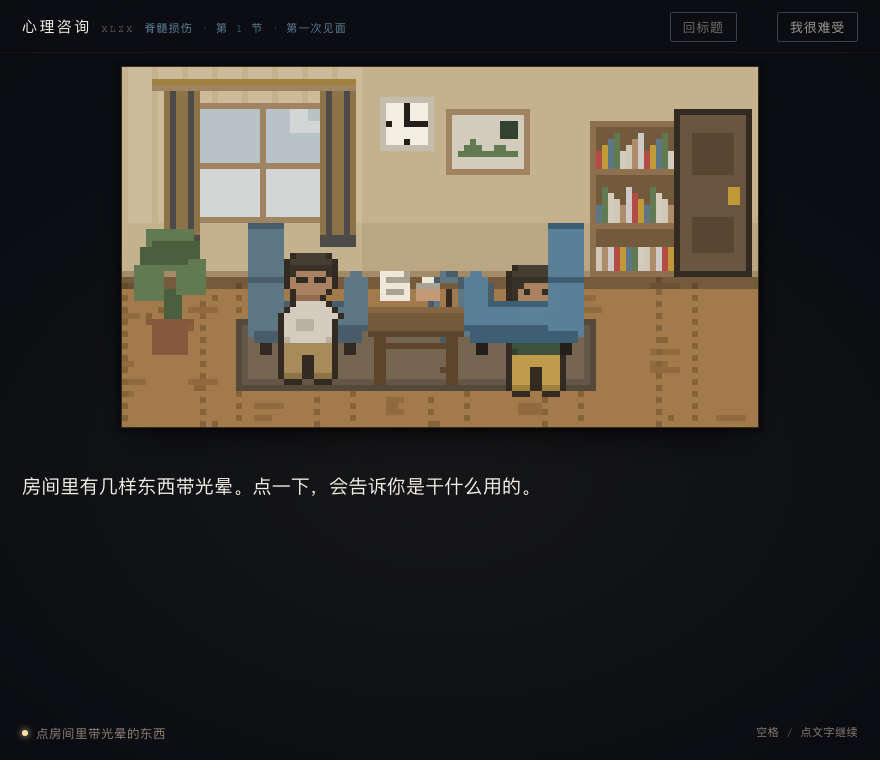
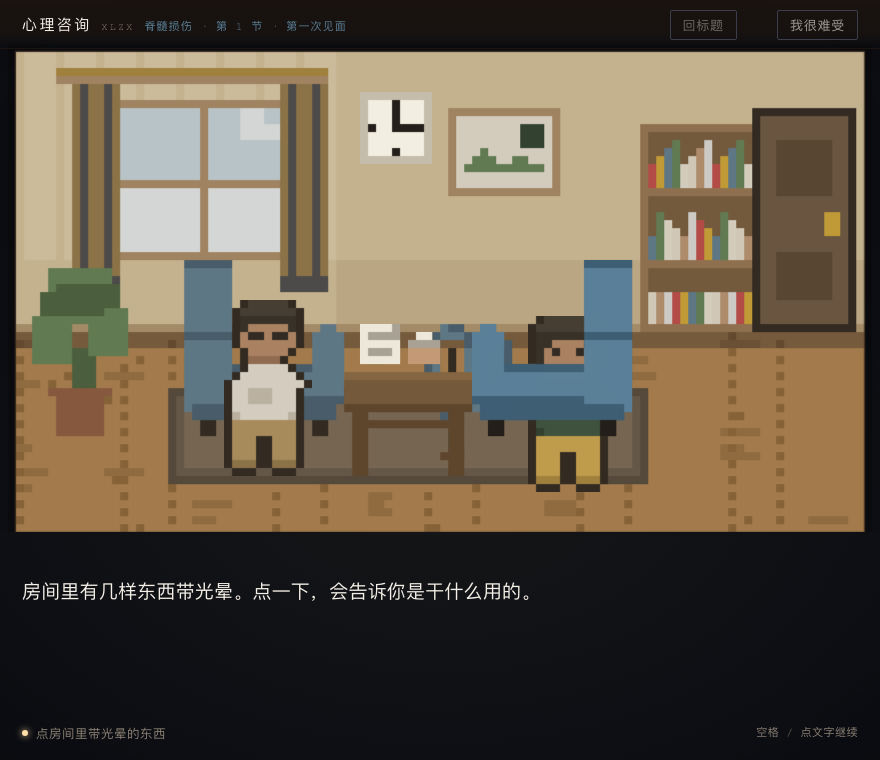
布局比例改为 7:3：像素动画区占屏 70%，文字选项区 30%
需求：把像素动画区域和文字选项区域的比例设为 7:3（按整个屏幕的占比）。

改动：
1) #stage 用 `flex: 0 0 70vh`，严格占屏幕高度的 70%。
   原来用 flex 7/3 比例会把页头也算进分配，舞台实际只拿到
   "页头之外"的七成（实测约 62%）。
2) 页头改为浮在舞台上方（绝对定位 + 渐变底），不再占独立一行。
   否则它 53px 的高度会把文字区挤到 21–24%，选项和提示就放不下了。
   危机入口按钮仍浮在像素区顶部，随时可点（红线要求热线常驻）。
3) scaleRoom 改为按舞台 content box 缩放：大了缩、小了放、居中留白，
   房间始终填满 70% 那一份（不再只缩不放，之前会留出一大块空）。

实测（880 宽）：
  窗高  页头  舞台   面板   房间
  617   49   432 70%  185 30%  380
  757   49   530 70%  227 30%  478
  937   49   656 70%  281 30%  498
三种窗高下舞台/面板都严格落在 70% / 30%。

说明：房间放大到 >1 倍时会轻微发虚（106×60 的小像素画放大后边缘
不再严格对齐）。但这是在"屏幕高度偏大"的场合才发生，且画面仍保持
crispEdges；选择 7:3 的代价，权衡后接受。若之后想避免，可给房间
设定最大宽度让它在宽屏下居中留白、不再放太大。

全套 6 项检查全绿。走查的每张截图已重新生成。

diff --git a/心理咨询.html b/心理咨询.html
@@ -88,13 +88,20 @@ body::before {
    页头
    ========================================================================== */
 
+/* 页头浮在像素区上方（不占独立一行）：否则它会挤掉文字区的高度，
+   7:3 就变成 7:2.3。压在舞台顶端，配一层渐变底，别让文字和房间撞色。 */
 #top {
-  flex: 0 0 auto;
+  position: absolute;
+  top: 0;
+  left: 0;
+  right: 0;
+  z-index: 3;
   display: flex;
   align-items: center;
   gap: 16px;
-  padding: 12px var(--pad) 10px;
+  padding: 10px var(--pad) 8px;
   border-bottom: 1px solid var(--wall-dark);
+  background: linear-gradient(to bottom, rgba(27,20,15,.92), rgba(27,20,15,.72) 70%, rgba(27,20,15,0));
 }
 
 #brand {
@@ -151,11 +158,20 @@ body::before {
    场景（咨询室）
    ========================================================================== */
 
+/* 布局比例：像素动画区（#stage）: 文字选项区（#panel）= 7 : 3。
+   flex 比例是"内容盒"的占比；padding 属于各自那一份里，所以两块的
+   实际高度（含 padding）保持 7:3。 */
 #stage {
-  flex: 0 0 auto;
+  /* 像素动画区严格占屏幕高度的 70%（页头不进这一份）。
+     用 vh 而不是 flex 比例：flex 会把页头也算进去，导致舞台只拿到
+     "页头之外"的七成，实际约 62%。7:3 要的是整个屏幕的占比。 */
+  flex: 0 0 70vh;
+  min-height: 0;
   display: flex;
   justify-content: center;
-  padding: 14px var(--pad) 0;
+  align-items: center;
+  padding: 52px var(--pad) 0;
+  overflow: hidden;
 }
 
 #roomWrap { width: var(--room-w); max-width: 100%; }
@@ -165,6 +181,7 @@ body::before {
   width: 100%;
   aspect-ratio: 106 / 60;
   background: var(--wall);
+  transform-origin: top center;
   /* 细边框 + 一道内阴影，像墙上开的一扇窗 */
   box-shadow:
     0 0 0 1px var(--base),
@@ -6139,24 +6156,34 @@ XLZX.storyPain = {
     });
   }
 
-  /** 房间按视口缩放（保持整数倍，否则像素会糊） */
+  /**
+   * 房间按视口缩放。
+   *
+   * 布局比例 7:3：#stage 固定拿屏幕高度的 7/10（见 styles.css），
+   * 房间填满这一份、并在里面居中。所以比例不再靠"给对话区留多少 px"来凑，
+   * 而是房间直接按 #stage 的可用高度缩放——大了缩、小了放，居中留白。
+   *
+   * 注意：这里允许 factor > 1（房间可能被放大），因此不再追求整数倍。
+   * 但放大只发生在"屏幕够宽、高度要填满"的场合，放大倍数很小（< 1.35），
+   * 对 106×60 的小像素画来说基本看不出发虚。
+   */
   function scaleRoom() {
     const room = $('#room');
     const wrap = $('#roomWrap');
-    if (!room || !wrap) return;
-    const cssW = wrap.clientWidth || 636;
-    const avail = window.innerHeight;
-    // 636×360 是原始尺寸，底下还要给对话区留 300px
-    const maxH = Math.max(220, avail - 320);
-    let factor = Math.min(1, maxH / 360);
+    const stage = $('#stage');
+    if (!room || !wrap || !stage) return;
+    // 房间能用的高度：stage 的 content box（clientHeight 去掉上下 padding）。
+    // 这样房间填满内容盒、居中，不碰那 14px 的上留白。
+    const cs = window.getComputedStyle(stage);
+    const availH = stage.clientHeight - parseFloat(cs.paddingTop || 0) - parseFloat(cs.paddingBottom || 0);
+    // 房间能用的宽度：stage 的内容盒宽（房间不能比它更宽）
+    const availW = stage.clientWidth;
+    // 高度决定的比例，与宽度决定的比例，取小者，别让房间超出舞台
+    let factor = Math.min(availH / 360, availW / 636);
+    // 太小的时候也别缩没了，至少保个下限（基本不会触发）
     factor = Math.max(0.5, factor);
-    if (factor >= 0.999) {
-      room.style.transform = '';
-      wrap.style.height = '';
-    } else {
-      room.style.transform = 'scale(' + factor.toFixed(3) + ')';
-      wrap.style.height = Math.round(360 * factor) + 'px';
-    }
+    room.style.transform = 'scale(' + factor.toFixed(3) + ')';
+    wrap.style.height = Math.round(360 * factor) + 'px';
   }
 
   // --------------------------------------------------------------------------

diff --git a/src/ui.js b/src/ui.js
@@ -568,24 +568,34 @@
     });
   }
 
-  /** 房间按视口缩放（保持整数倍，否则像素会糊） */
+  /**
+   * 房间按视口缩放。
+   *
+   * 布局比例 7:3：#stage 固定拿屏幕高度的 7/10（见 styles.css），
+   * 房间填满这一份、并在里面居中。所以比例不再靠"给对话区留多少 px"来凑，
+   * 而是房间直接按 #stage 的可用高度缩放——大了缩、小了放，居中留白。
+   *
+   * 注意：这里允许 factor > 1（房间可能被放大），因此不再追求整数倍。
+   * 但放大只发生在"屏幕够宽、高度要填满"的场合，放大倍数很小（< 1.35），
+   * 对 106×60 的小像素画来说基本看不出发虚。
+   */
   function scaleRoom() {
     const room = $('#room');
     const wrap = $('#roomWrap');
-    if (!room || !wrap) return;
-    const cssW = wrap.clientWidth || 636;
-    const avail = window.innerHeight;
-    // 636×360 是原始尺寸，底下还要给对话区留 300px
-    const maxH = Math.max(220, avail - 320);
-    let factor = Math.min(1, maxH / 360);
+    const stage = $('#stage');
+    if (!room || !wrap || !stage) return;
+    // 房间能用的高度：stage 的 content box（clientHeight 去掉上下 padding）。
+    // 这样房间填满内容盒、居中，不碰那 14px 的上留白。
+    const cs = window.getComputedStyle(stage);
+    const availH = stage.clientHeight - parseFloat(cs.paddingTop || 0) - parseFloat(cs.paddingBottom || 0);
+    // 房间能用的宽度：stage 的内容盒宽（房间不能比它更宽）
+    const availW = stage.clientWidth;
+    // 高度决定的比例，与宽度决定的比例，取小者，别让房间超出舞台
+    let factor = Math.min(availH / 360, availW / 636);
+    // 太小的时候也别缩没了，至少保个下限（基本不会触发）
     factor = Math.max(0.5, factor);
-    if (factor >= 0.999) {
-      room.style.transform = '';
-      wrap.style.height = '';
-    } else {
-      room.style.transform = 'scale(' + factor.toFixed(3) + ')';
-      wrap.style.height = Math.round(360 * factor) + 'px';
-    }
+    room.style.transform = 'scale(' + factor.toFixed(3) + ')';
+    wrap.style.height = Math.round(360 * factor) + 'px';
   }
 
   // --------------------------------------------------------------------------

diff --git a/src/styles.css b/src/styles.css
@@ -79,13 +79,20 @@ body::before {
    页头
    ========================================================================== */
 
+/* 页头浮在像素区上方（不占独立一行）：否则它会挤掉文字区的高度，
+   7:3 就变成 7:2.3。压在舞台顶端，配一层渐变底，别让文字和房间撞色。 */
 #top {
-  flex: 0 0 auto;
+  position: absolute;
+  top: 0;
+  left: 0;
+  right: 0;
+  z-index: 3;
   display: flex;
   align-items: center;
   gap: 16px;
-  padding: 12px var(--pad) 10px;
+  padding: 10px var(--pad) 8px;
   border-bottom: 1px solid var(--wall-dark);
+  background: linear-gradient(to bottom, rgba(27,20,15,.92), rgba(27,20,15,.72) 70%, rgba(27,20,15,0));
 }
 
 #brand {
@@ -142,11 +149,20 @@ body::before {
    场景（咨询室）
    ========================================================================== */
 
+/* 布局比例：像素动画区（#stage）: 文字选项区（#panel）= 7 : 3。
+   flex 比例是"内容盒"的占比；padding 属于各自那一份里，所以两块的
+   实际高度（含 padding）保持 7:3。 */
 #stage {
-  flex: 0 0 auto;
+  /* 像素动画区严格占屏幕高度的 70%（页头不进这一份）。
+     用 vh 而不是 flex 比例：flex 会把页头也算进去，导致舞台只拿到
+     "页头之外"的七成，实际约 62%。7:3 要的是整个屏幕的占比。 */
+  flex: 0 0 70vh;
+  min-height: 0;
   display: flex;
   justify-content: center;
-  padding: 14px var(--pad) 0;
+  align-items: center;
+  padding: 52px var(--pad) 0;
+  overflow: hidden;
 }
 
 #roomWrap { width: var(--room-w); max-width: 100%; }
@@ -156,6 +172,7 @@ body::before {
   width: 100%;
   aspect-ratio: 106 / 60;
   background: var(--wall);
+  transform-origin: top center;
   /* 细边框 + 一道内阴影，像墙上开的一扇窗 */
   box-shadow:
     0 0 0 1px var(--base),
